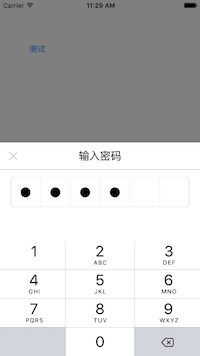
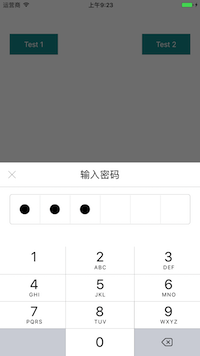
change ZZAlert

diff --git a/ZZPSDInputView/ZZPSDInputViewDemo/ZZPSDInputViewDemo/ViewController.m b/ZZPSDInputView/ZZPSDInputViewDemo/ZZPSDInputViewDemo/ViewController.m
@@ -32,7 +32,6 @@
         [weakSheet dismiss];
     };
     psdView.finishHandler = ^(NSString *passStr) {
-        // [weakSheet dismiss];
         [weakSheet dismissWithCompletion:^{
             NSLog(@"完成: %@", passStr);
             weakSelf.infoLabel.text = passStr;

diff --git a/ZZPSDInputView/ZZPSDInputViewDemo/ZZPSDInputViewDemo/ZZPSDInputView/ZZAlert.m b/ZZPSDInputView/ZZPSDInputViewDemo/ZZPSDInputViewDemo/ZZPSDInputView/ZZAlert.m
@@ -98,7 +98,7 @@
     return 0;
 }
 
-+ (NSInteger)animationStyleTransition {
++ (NSInteger)animationStyleTransform {
     return 1;
 }
 

diff --git a/README.md b/README.md
@@ -1,23 +1,24 @@
 # ZZPSDInputView
 仿支付宝密码输入
 
-![](./1.png)
+![](./1.png)       ![](./2.png)
 
 使用方法： 
 
 ```
+
 - (IBAction)test_1:(id)sender {
-    ZZActionSheet *sheet        = [[ZZActionSheet alloc] init];
+    ZZAlert *sheet        = [[ZZAlert alloc] init];
     sheet.dismissWhenTouchBlank = YES;
-    ZZPSDInputView *psdView     = [ZZPSDInputView psdInputView];
-    psdView.backgroundColor     = [UIColor whiteColor];
-    __weak __typeof(self) weakSelf = self;
+    
+    ZZPSDInputView *psdView  = [ZZPSDInputView psdInputView];
+    psdView.backgroundColor  = [UIColor whiteColor];
+    __weak __typeof(self) weakSelf   = self;
     __weak __typeof(sheet) weakSheet = sheet;
     psdView.cancelHandler = ^() {
         [weakSheet dismiss];
     };
     psdView.finishHandler = ^(NSString *passStr) {
-        // [weakSheet dismiss];
         [weakSheet dismissWithCompletion:^{
             NSLog(@"完成: %@", passStr);
             weakSelf.infoLabel.text = passStr;
@@ -27,6 +28,16 @@
     sheet.contentView = psdView;
     [sheet show];
 }
+
+- (IBAction)test_2:(id)sender {
+    ZZAlert *sheet = [[ZZAlert alloc] init];
+    sheet.animationStyle = ZZAlert.animationStyleTransform;
+    sheet.dismissWhenTouchBlank = YES;
+    UIView *purpleView = [[UIView alloc] initWithFrame:CGRectMake(0, 0, 300, 400)];
+    purpleView.backgroundColor = [UIColor purpleColor];
+    sheet.contentView = purpleView;
+    [sheet show];
+}
 ```
 
-考虑到内容视图应该自定制，即ZZPSDInputView应该是自定制的，不应该写死，此处的密码输入思路供参考。
+考虑到内容视图应该自定制，即ZZAlert的contentView应该是自定制的，不应该写死，此处的密码输入思路供参考。
